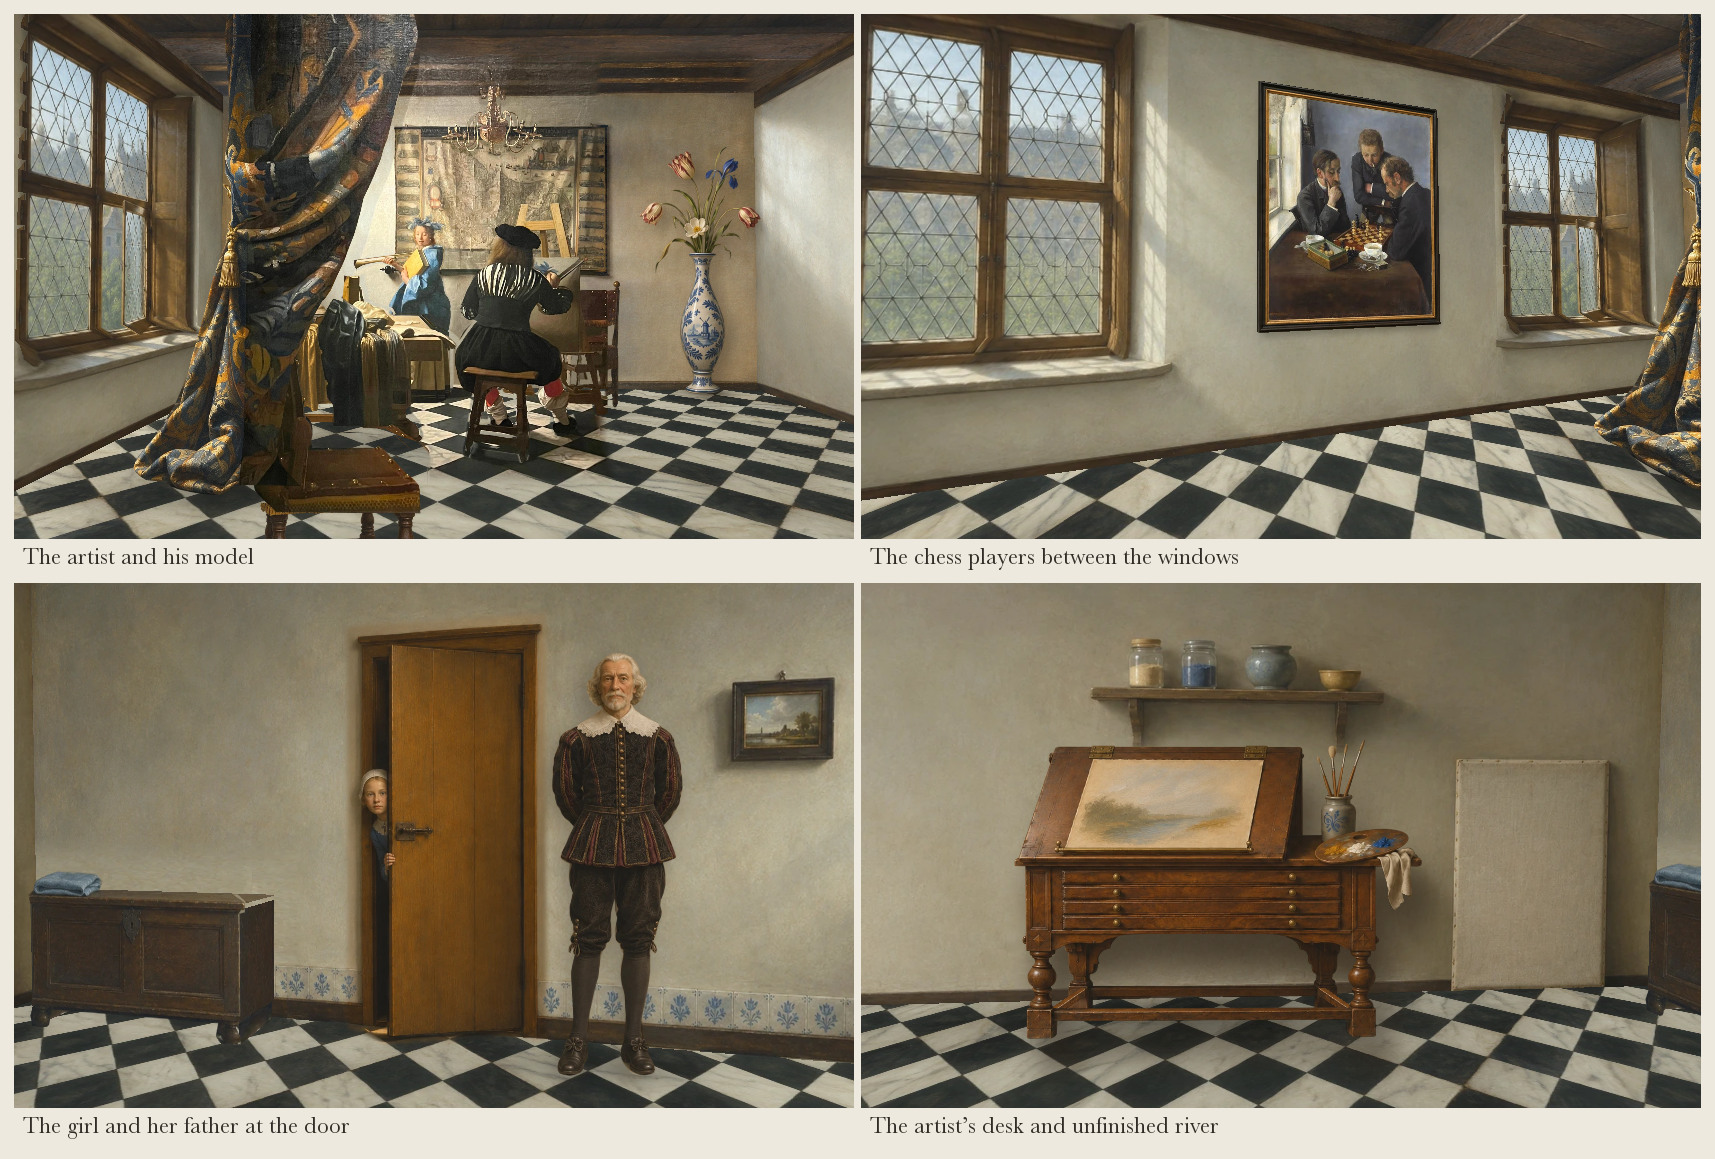
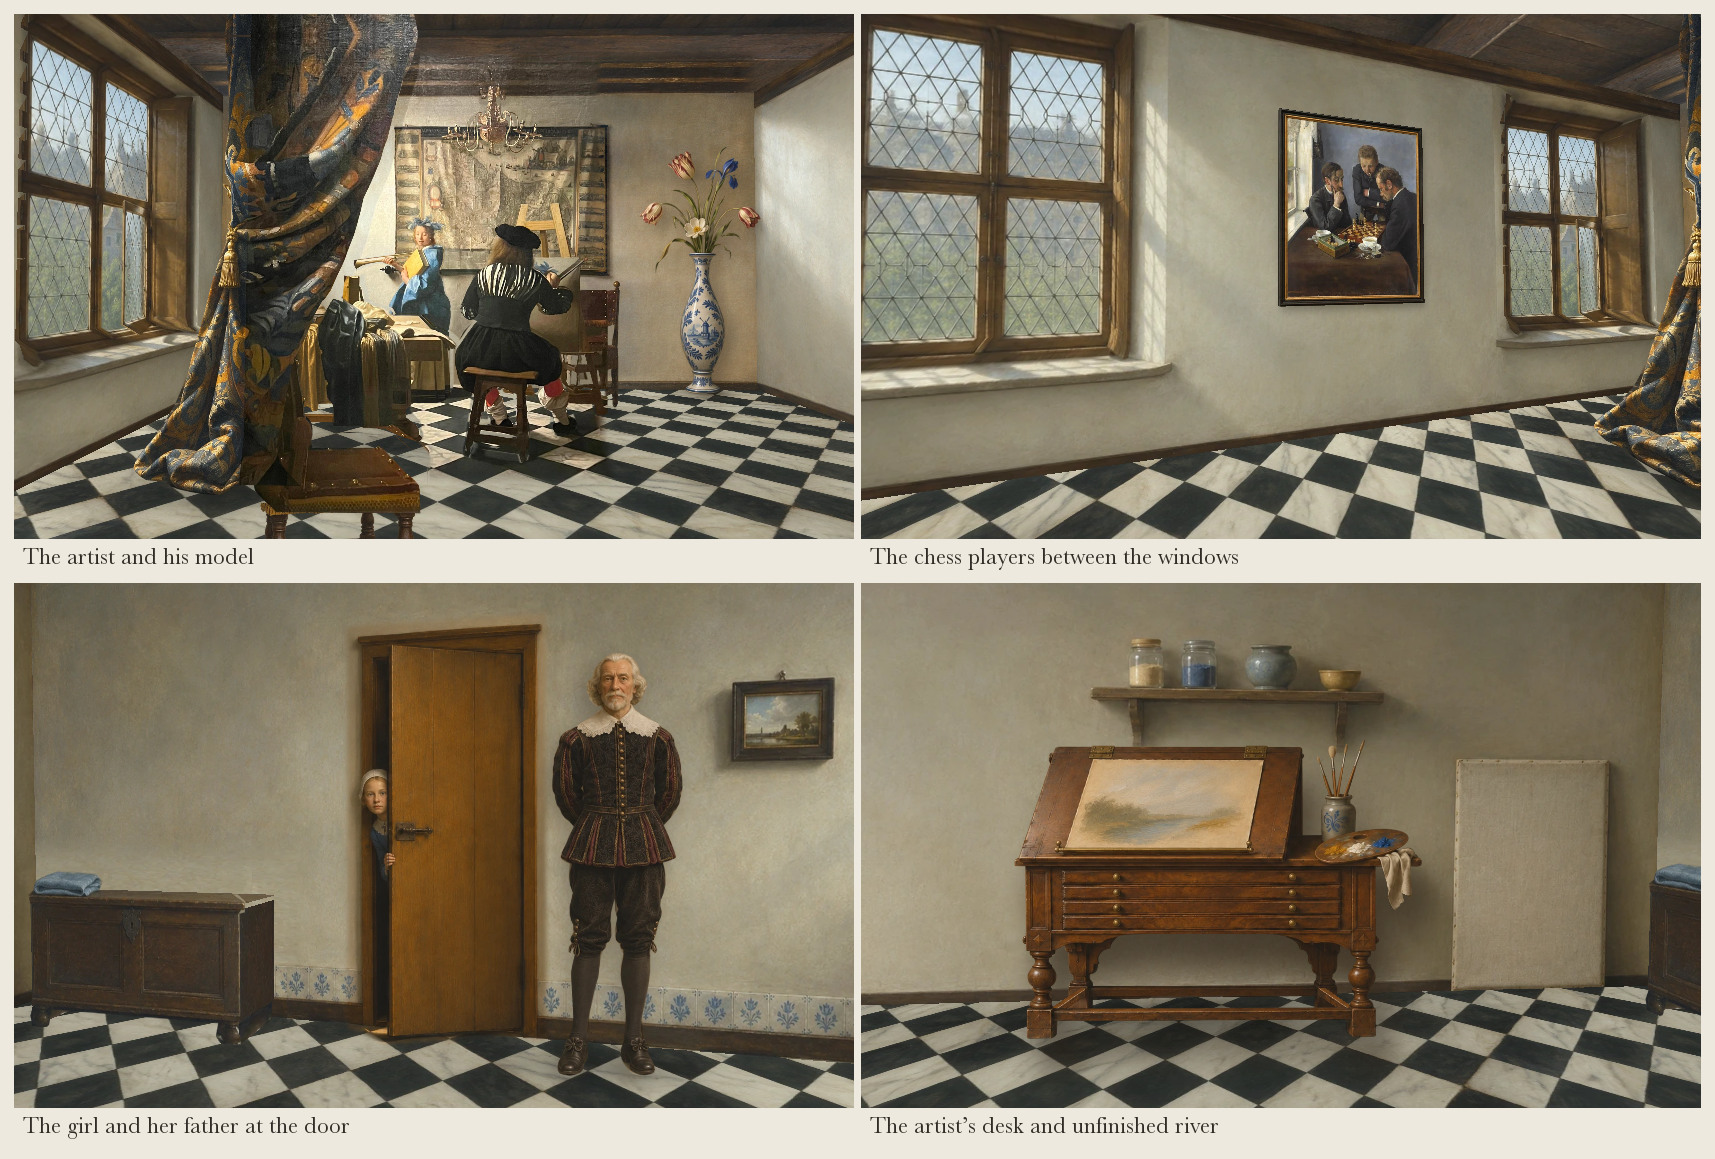
make the chess painting smaller

Changed region(s): [[0.7108, 0.0621, 0.8653, 0.3106]]

diff --git a/scripts/vermeer/walls.py b/scripts/vermeer/walls.py
@@ -154,7 +154,7 @@ def _sprite(wall, box, depth, texture):
 
 # Position of the approved frame in the window elevation. The width preserves
 # the proportions of the supplied chess picture once the wall is in 3D.
-CHESS_FRAME = (317, 54, 463, 232.5)
+CHESS_FRAME = (331.6, 71.85, 448.4, 214.65)
 
 
 def _frame_shadow(windows):
